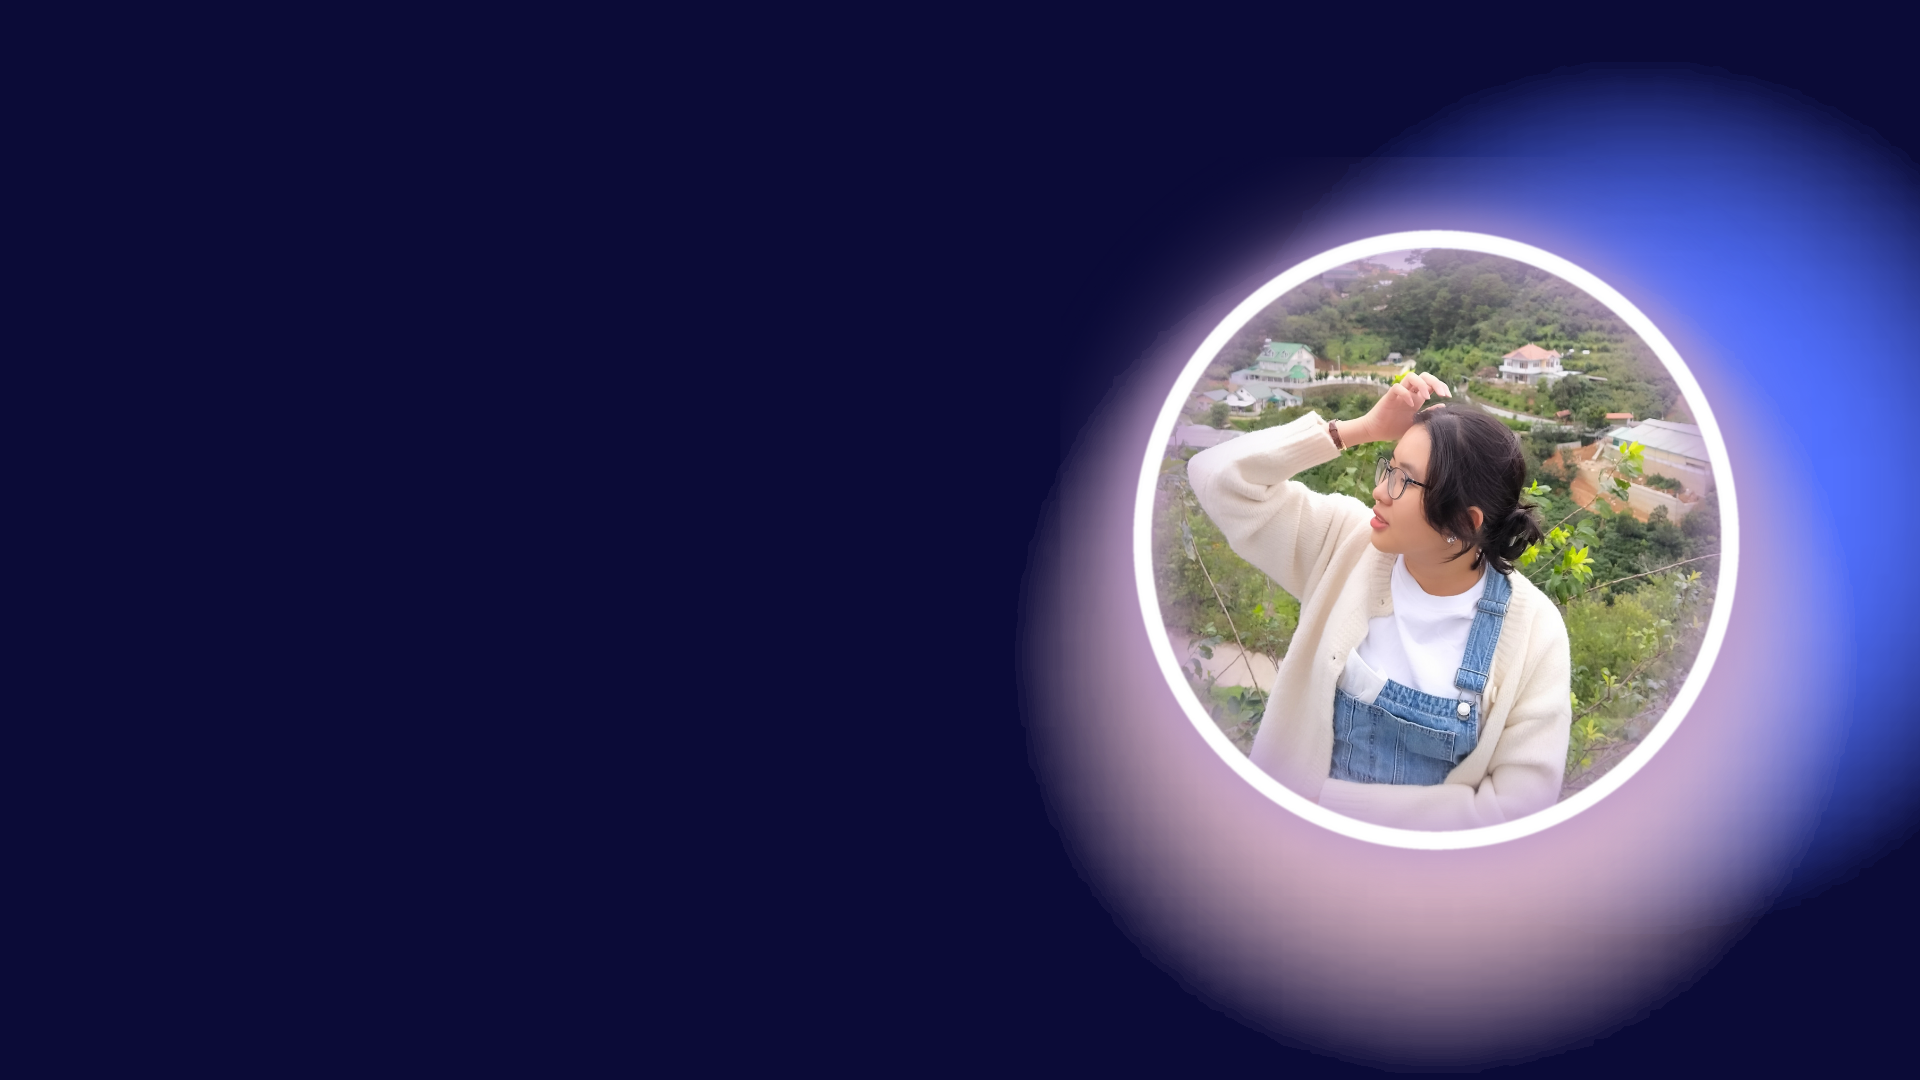
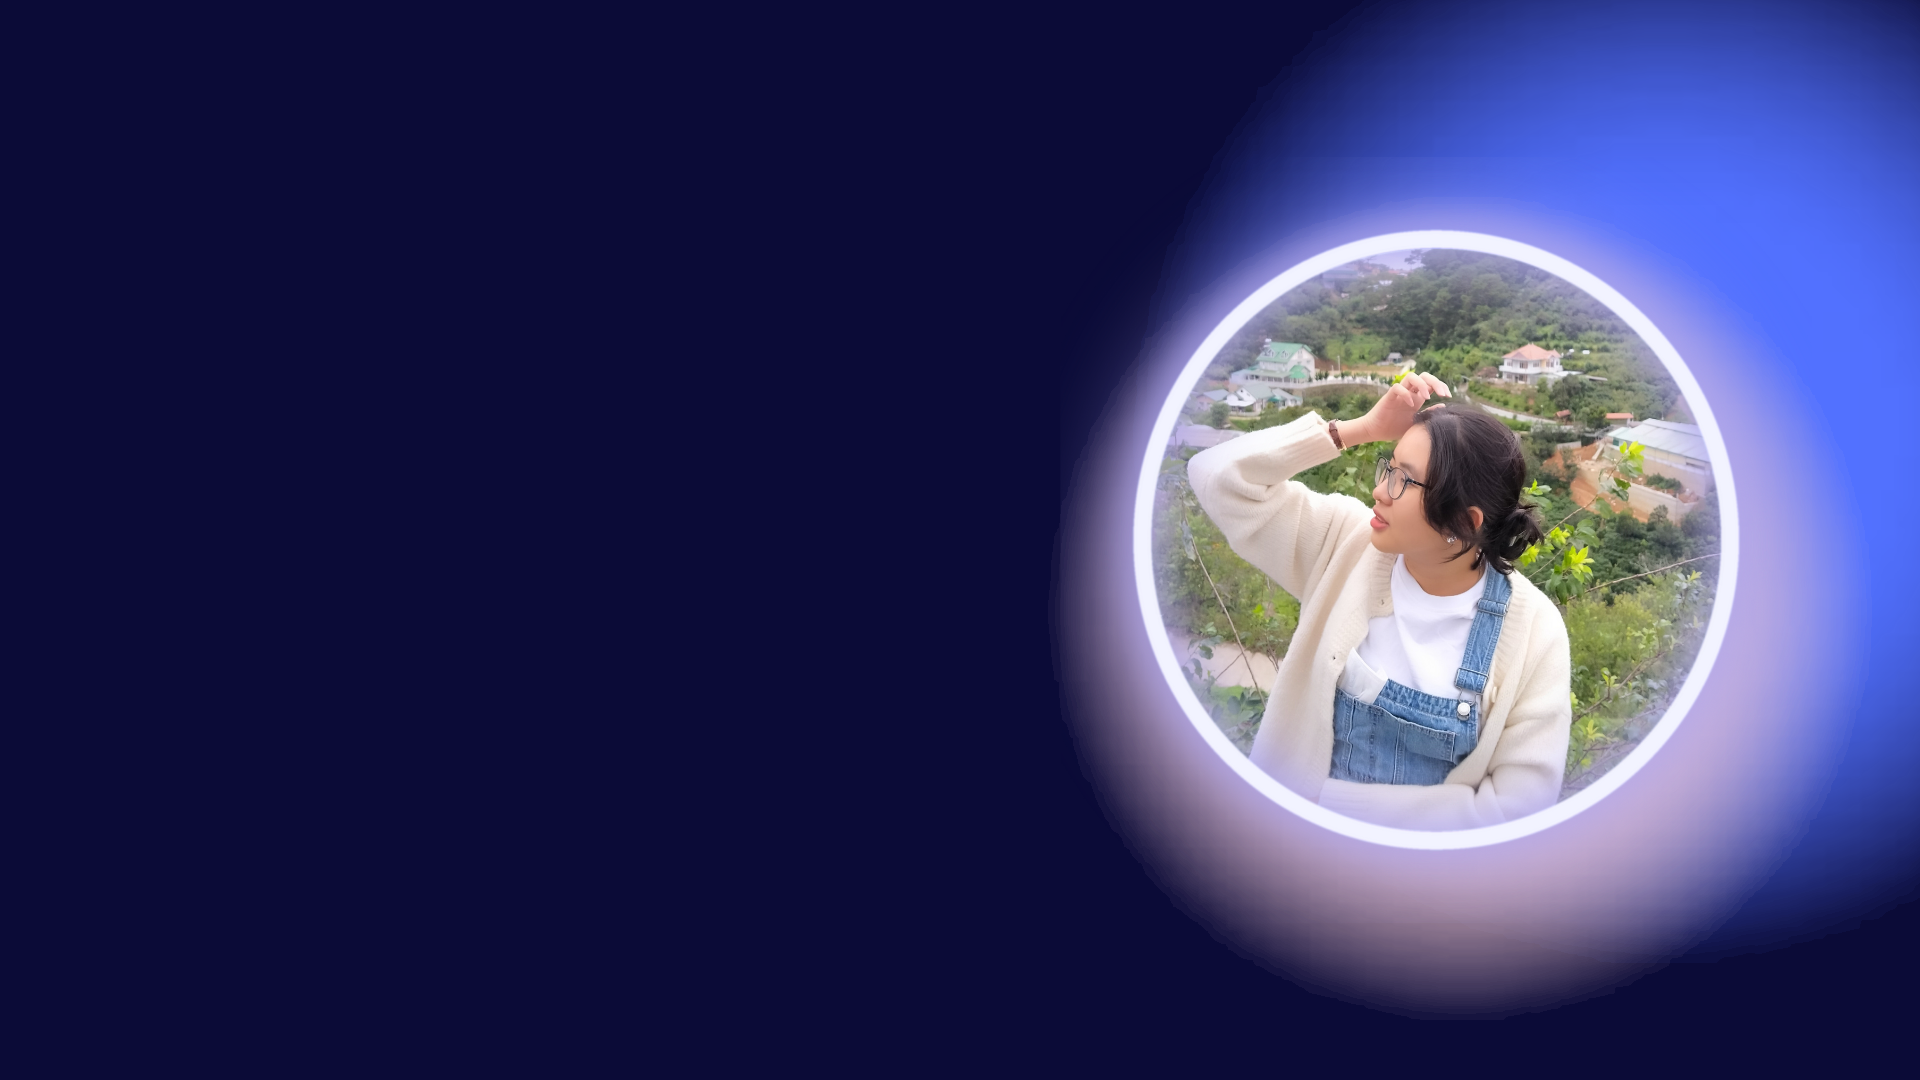
change bg & animation

diff --git a/index.html b/index.html
@@ -143,7 +143,7 @@
                 <circle class="path path-1" cx="100" cy="100" r="80"></circle>
               </svg>
               <div class="percentage">90%</div>
-              <div class="text">creativity</div>
+              <div class="text">Creativity</div>
             </div>
             <div class="radial-bar">
               <svg x="0px" y="0px" viewBox="0 0 200 200">
@@ -239,10 +239,10 @@
         <p>something here</p>
         <div class="contact-list">
           <li>
-            <i class="bx bxs-send bx-tada" style="color: #eab3ce"></i
-            >contact@gmail.com
+            <i class="bx bxs-send" style="color: #eab3ce"></i
+            > contact@gmail.com
           </li>
-          <li><i class="bx bx-phone"></i>10298340948</li>
+          <li><i class="bx bx-phone"></i> 10298340948</li>
         </div>
         <div class="contact-icons">
           <a href="#"><i class="bx bxl-gmail"></i></a>

diff --git a/css/stylesheet.css b/css/stylesheet.css
@@ -327,7 +327,7 @@ body {
   width: 100%;
   height: 5px;
   background-color: #000;
-  animation: animate 1s cubic-bezier(1, 0, 0, 4) forwards;
+  animation: animate 1s cubic-bezier(1, 0, 0.5, 1) forwards;
   transform: scaleX(0);
   transform-origin: left;
 }
@@ -336,7 +336,7 @@ body {
   background-color: #eab3ce;
   position: absolute;
   border-radius: 10px;
-  animation: animate 1s 1s cubic-bezier(1, 0, 0, 4) forwards;
+  animation: animate 1s 1s cubic-bezier(1, 0, 0.5, 1) forwards;
   transform: scaleX(0);
   transform-origin: left;
 }
